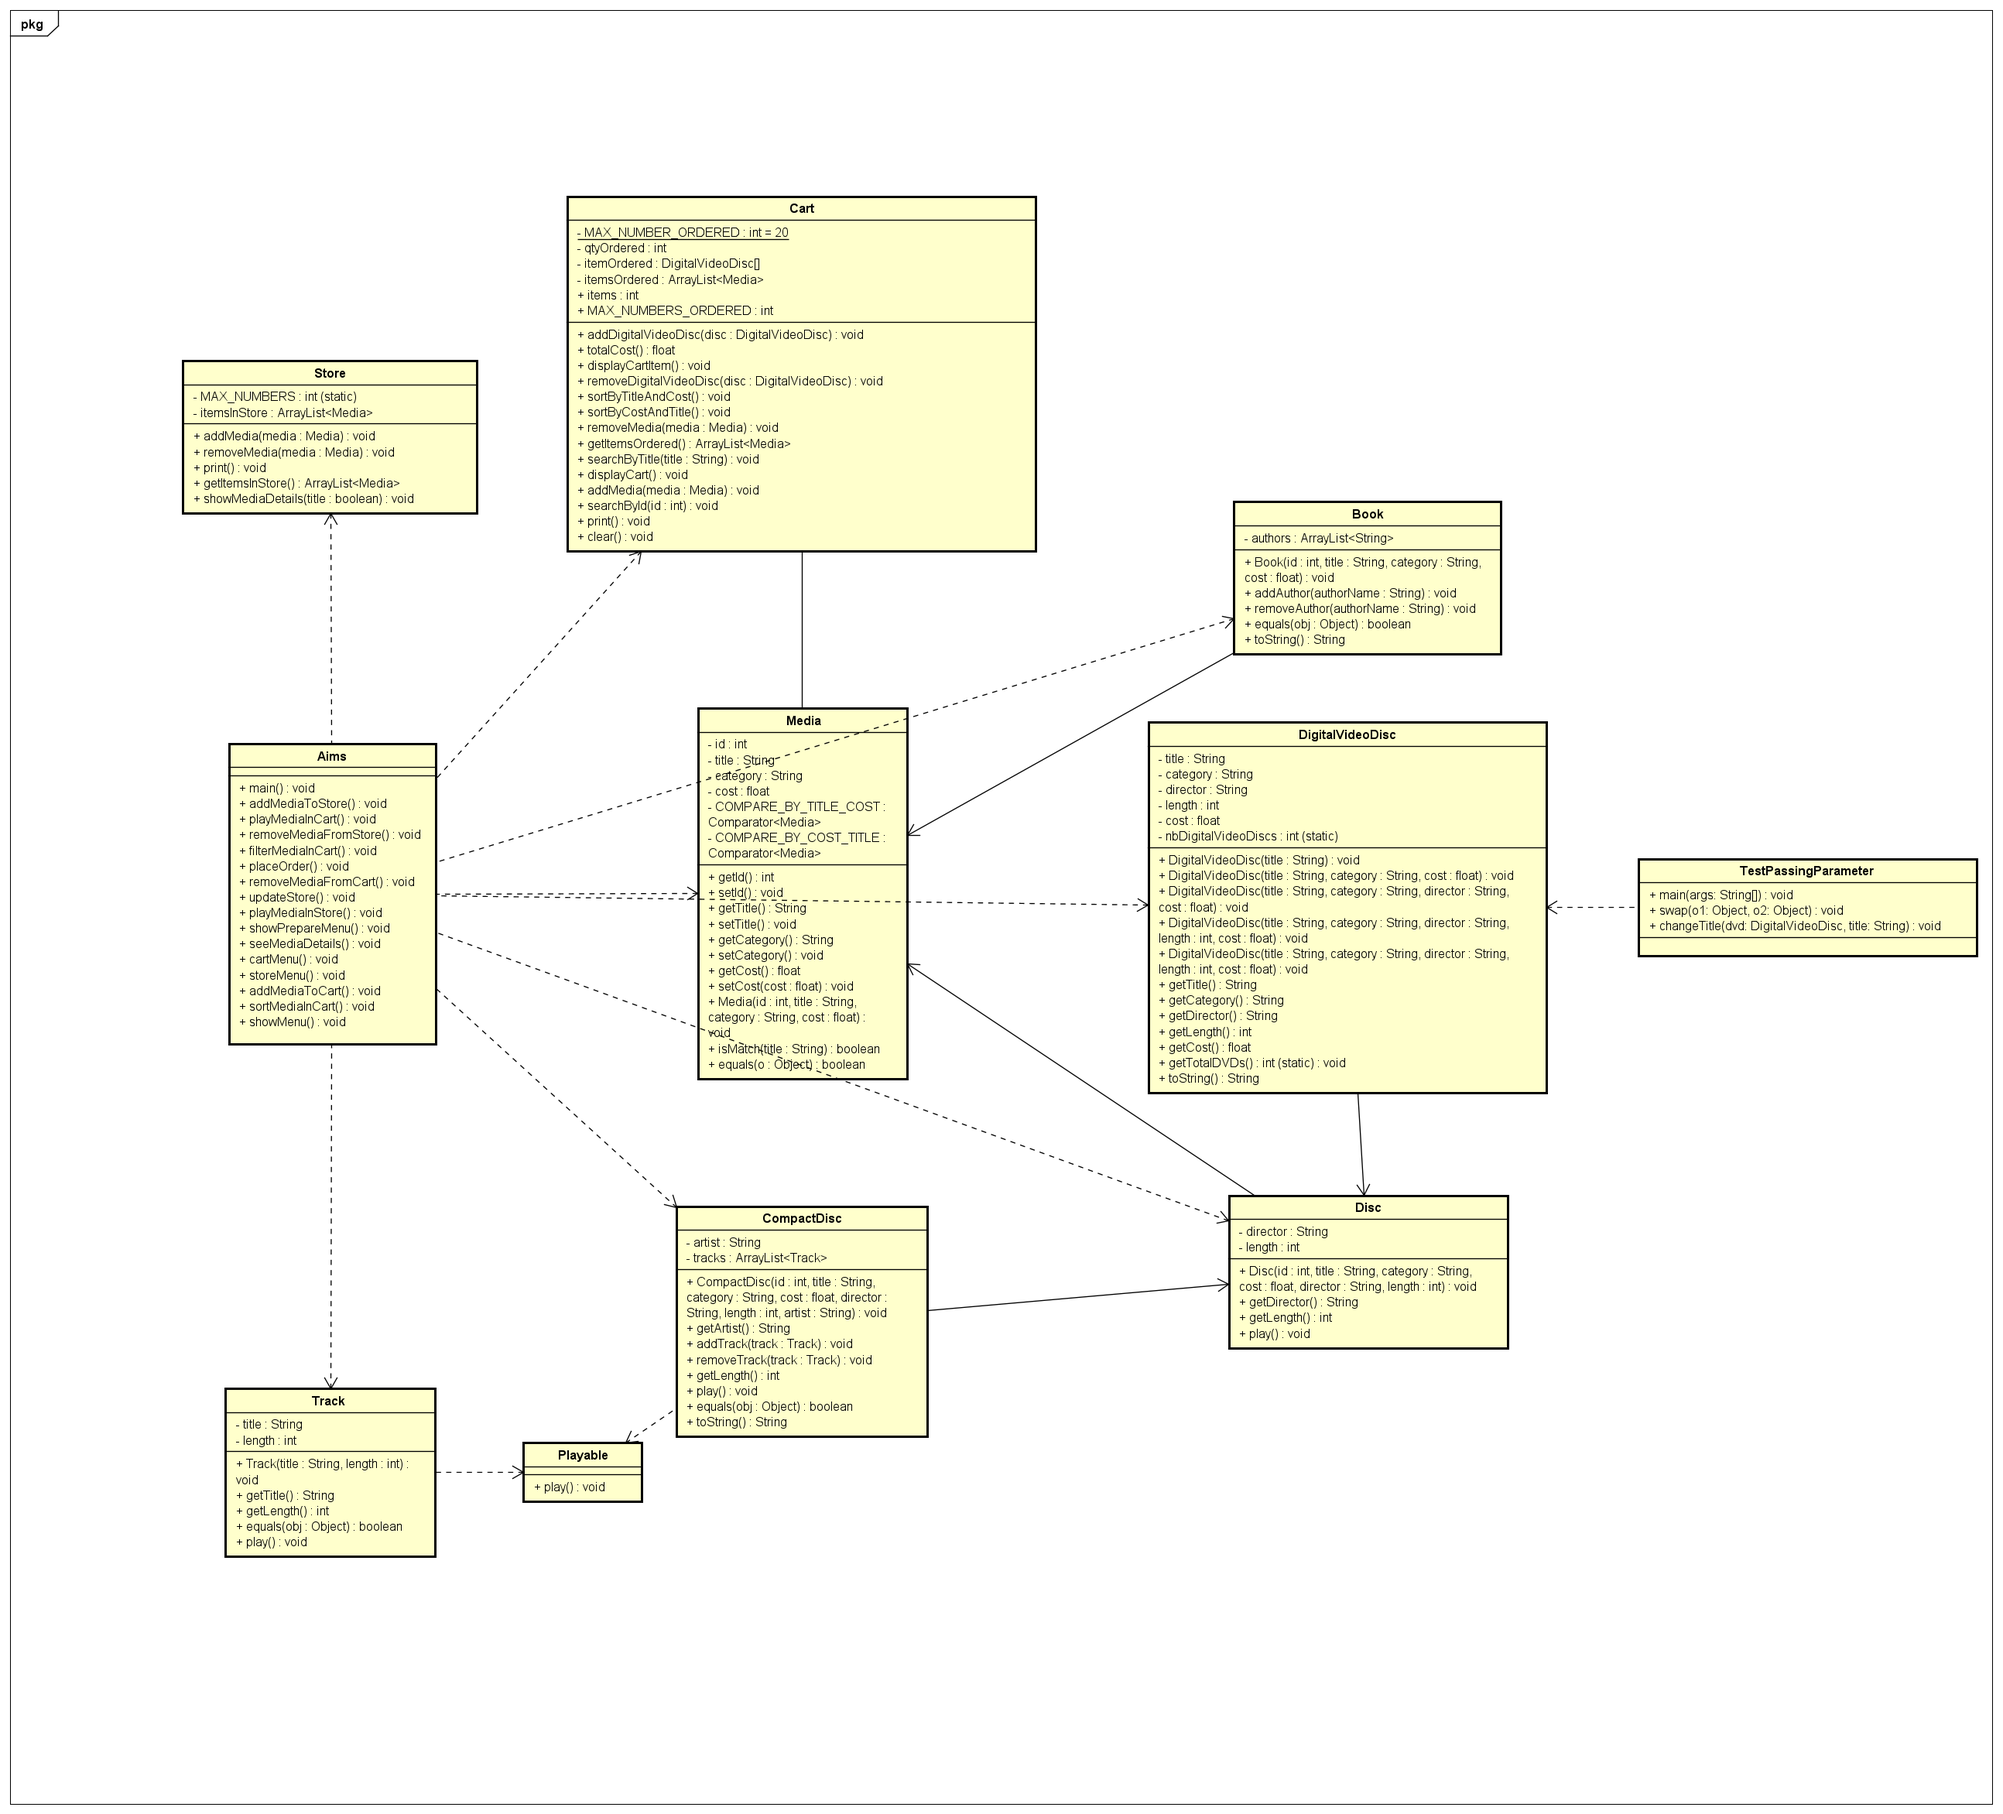
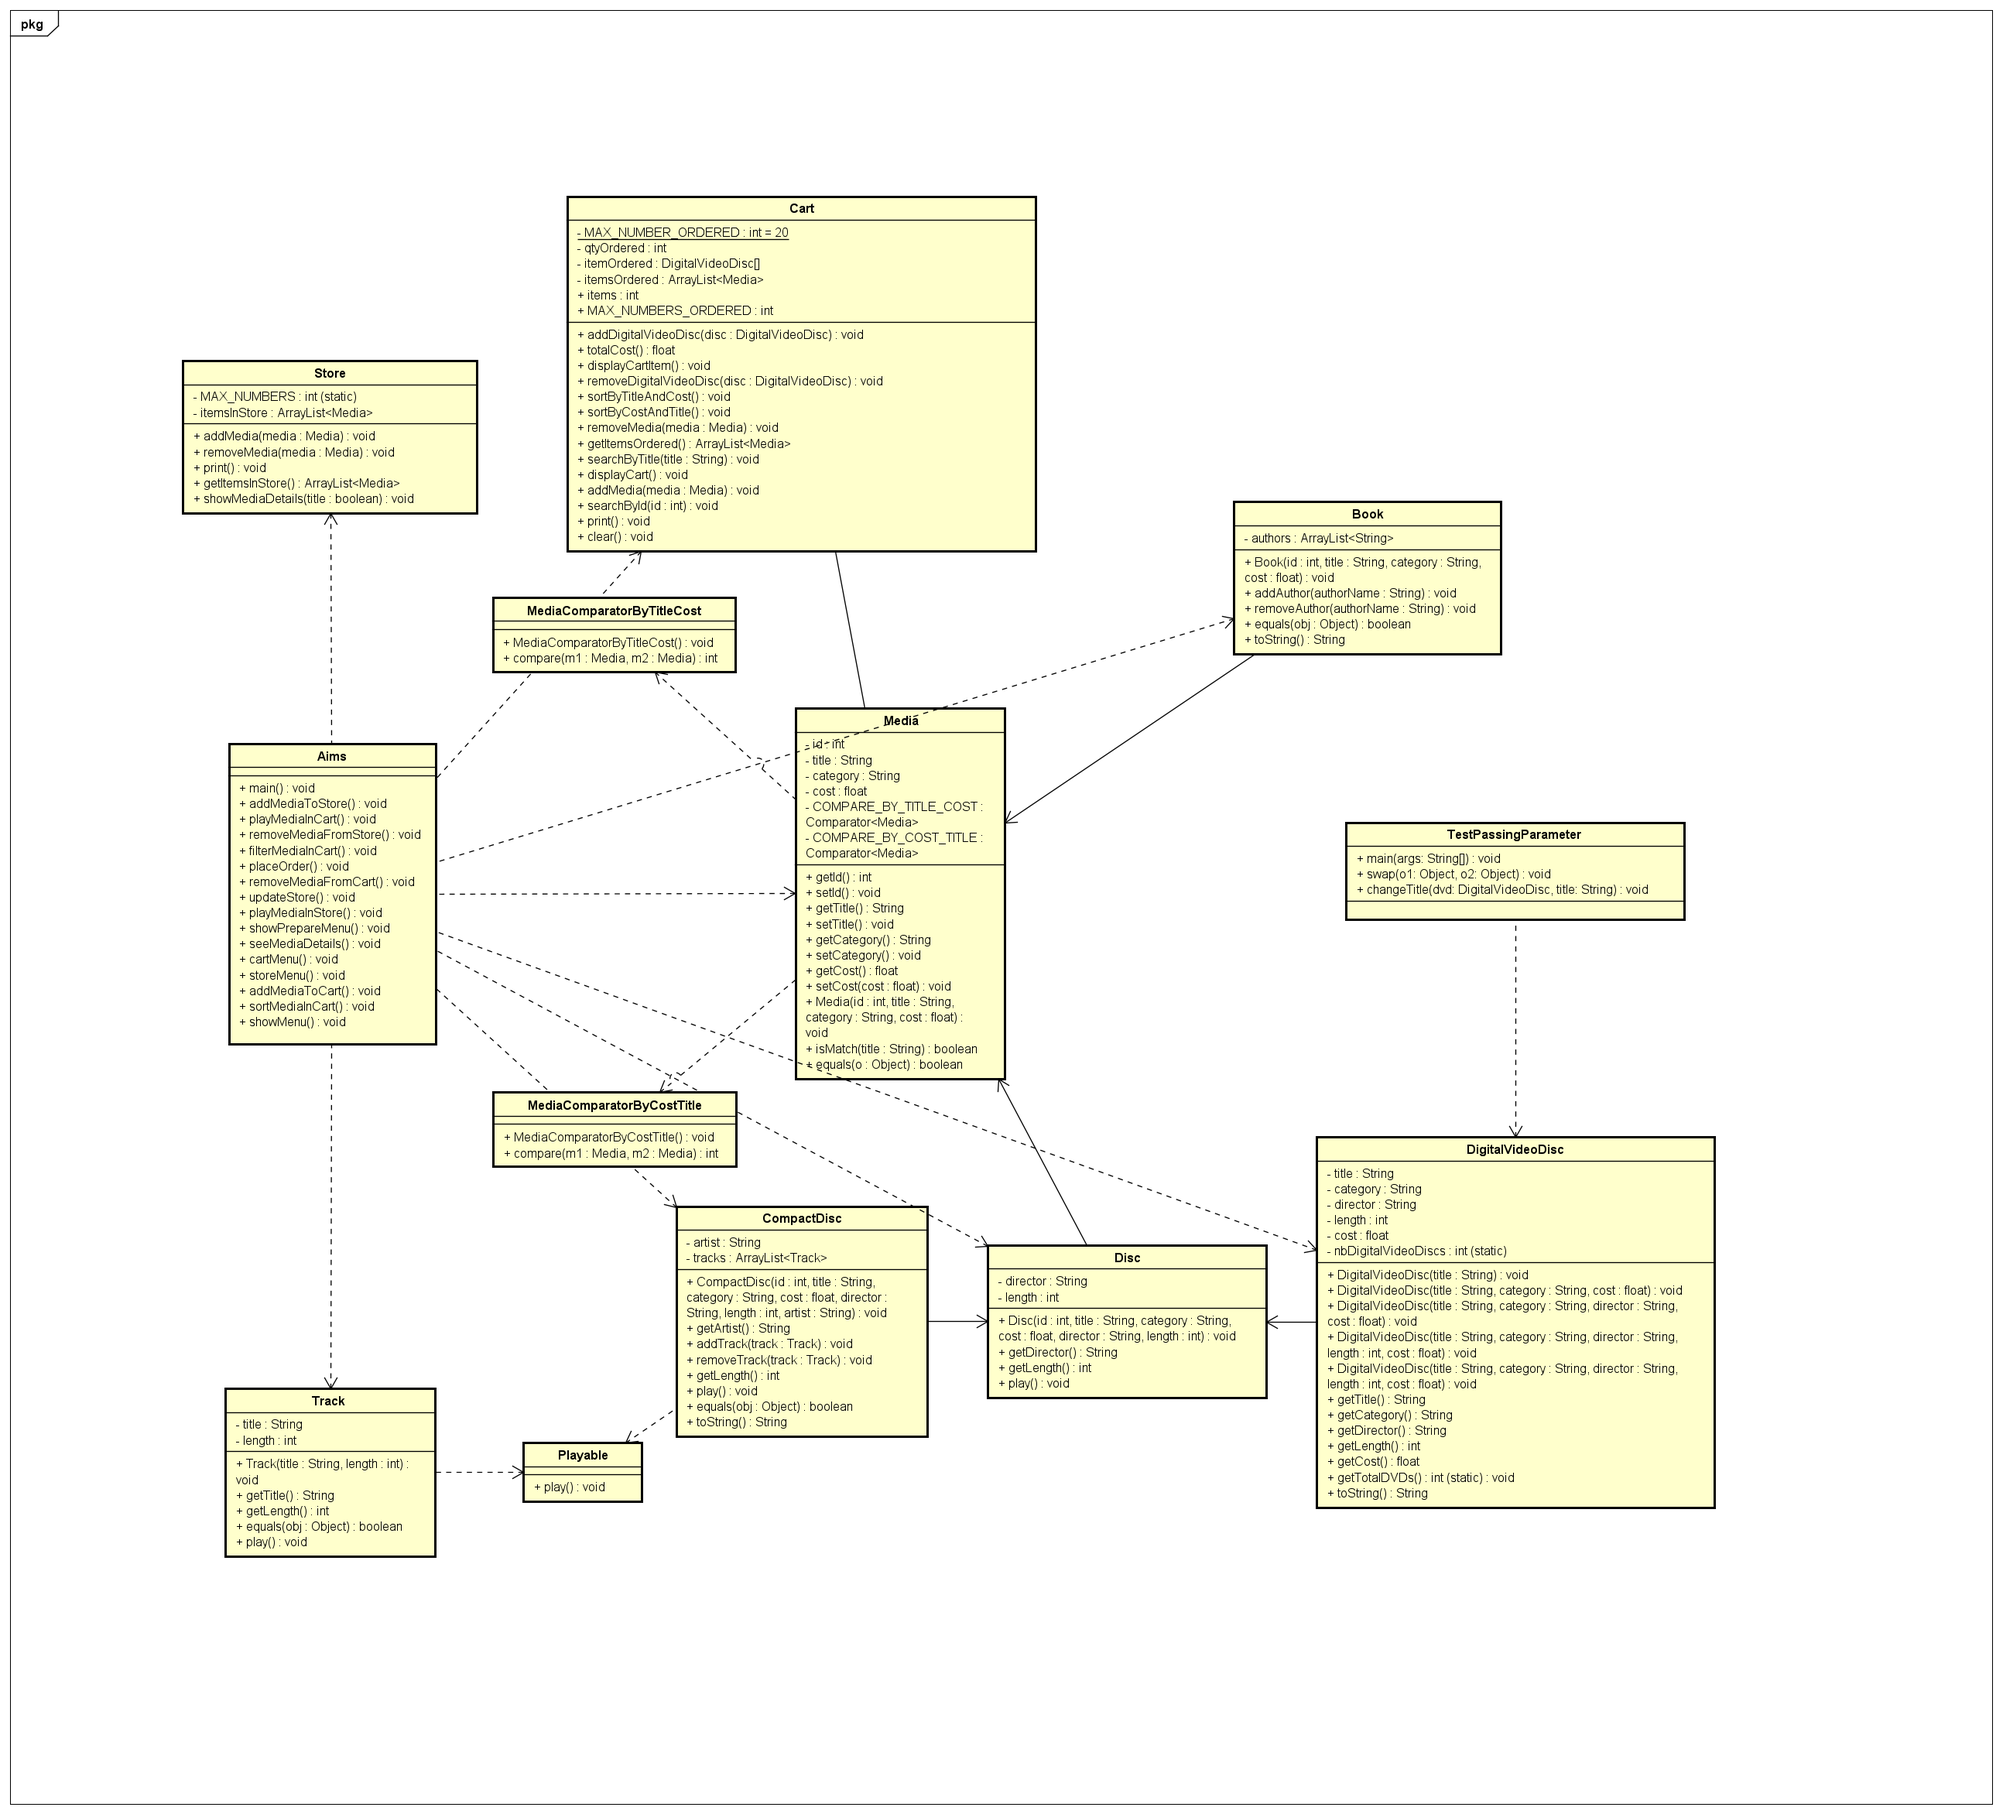
fix

Changed region(s): [[0.4637, 0.3737, 0.9892, 0.8409], [0.2473, 0.3114, 0.5255, 0.654]]

diff --git a/Lab03/AimsProject/src/hust/soict/hedspi/aims/media/MediaComparatorByCostTitle.java b/Lab03/AimsProject/src/hust/soict/hedspi/aims/media/MediaComparatorByCostTitle.java
@@ -1,0 +1,12 @@
+package hust.soict.hedspi.aims.media;
+import java.util.Comparator;
+
+public class MediaComparatorByCostTitle implements Comparator<Media>{
+	public int compare(Media m1, Media m2) {
+        int costCompare = Float.compare(m2.getCost(), m1.getCost()); // decreasing cost
+        if (costCompare != 0) {
+            return costCompare;
+        }
+        return m1.getTitle().compareToIgnoreCase(m2.getTitle()); // alphabetical by title
+    }
+}

diff --git a/Lab03/AimsProject/src/hust/soict/hedspi/aims/media/MediaComparatorByTitleCost.java b/Lab03/AimsProject/src/hust/soict/hedspi/aims/media/MediaComparatorByTitleCost.java
@@ -1,0 +1,12 @@
+package hust.soict.hedspi.aims.media;
+import java.util.Comparator;
+
+public class MediaComparatorByTitleCost implements Comparator<Media>{
+	public int compare(Media m1, Media m2) {
+		int titleCompare = m1.getTitle().compareToIgnoreCase(m2.getTitle()); // alphabetical
+		if (titleCompare != 0) {
+			return titleCompare;
+		}
+		return Float.compare(m2.getCost(), m1.getCost()); // decreasing cost
+	    }
+}
